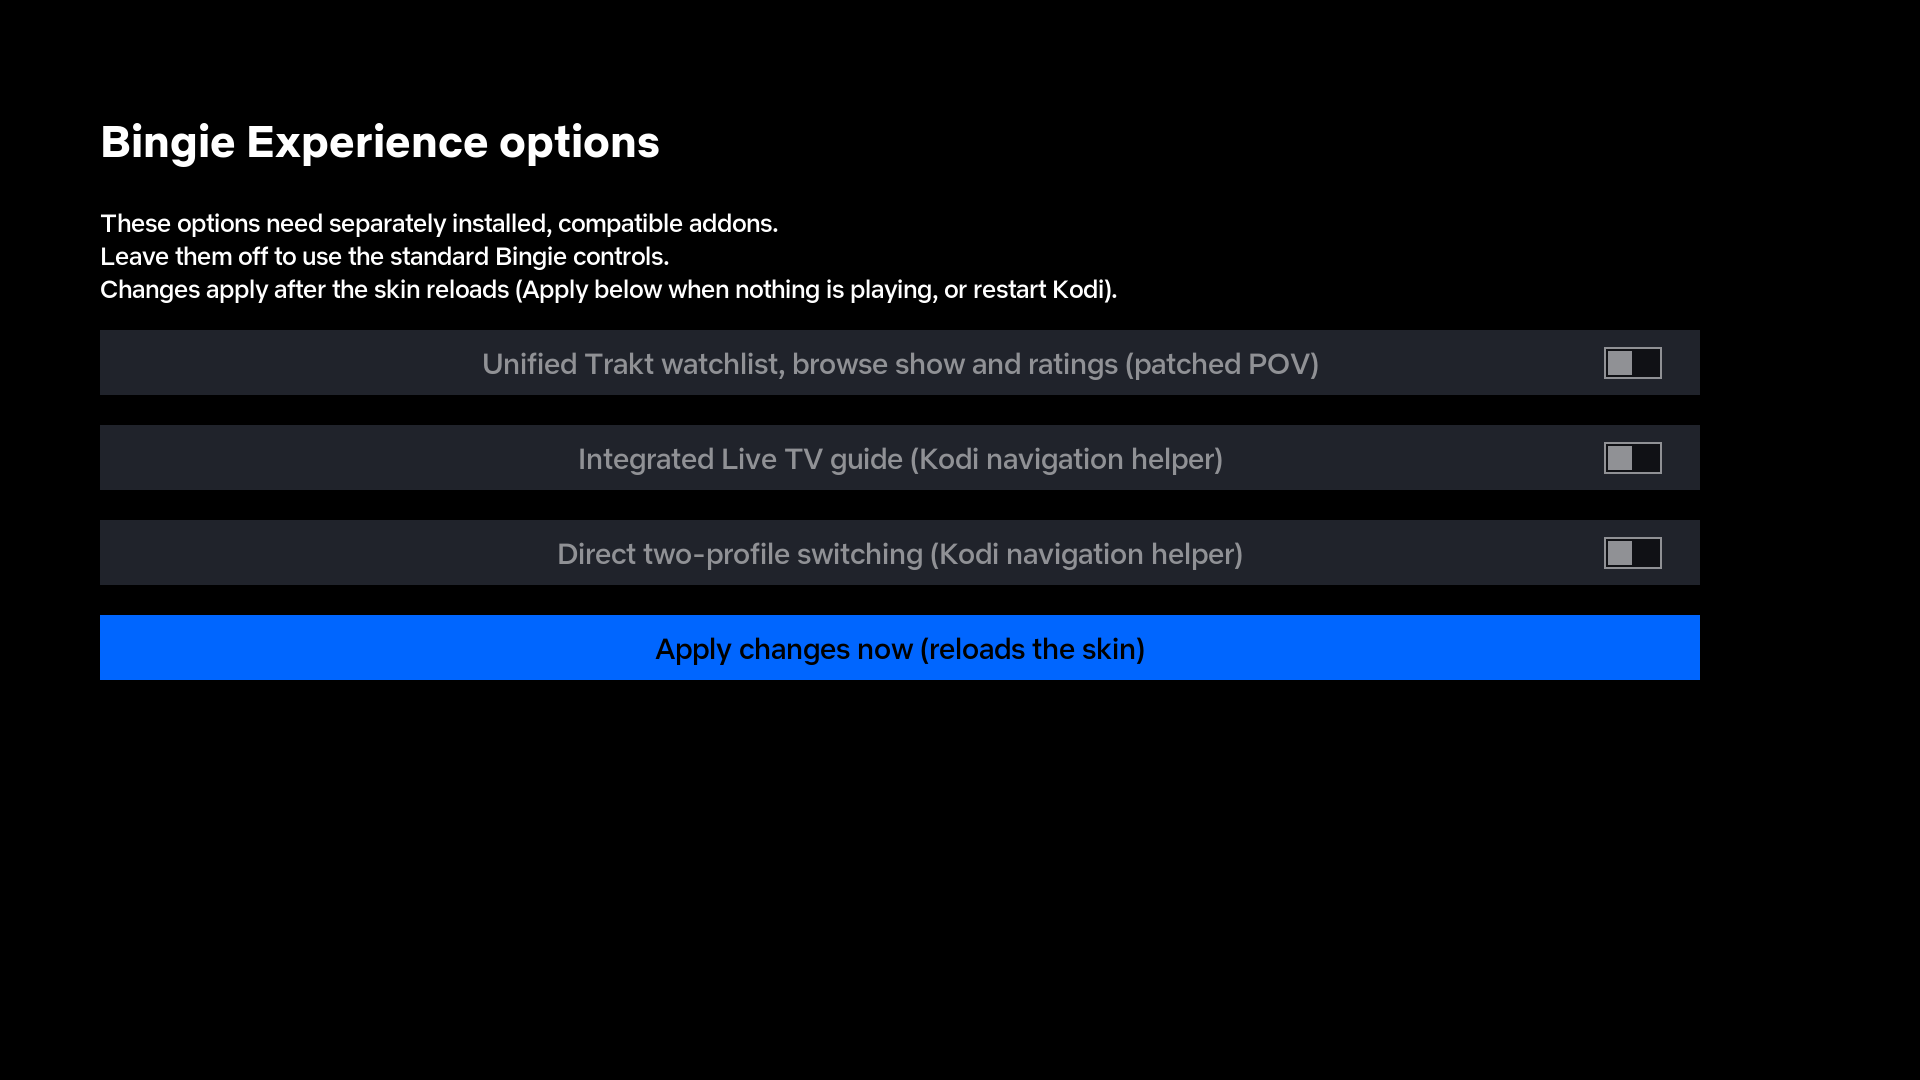
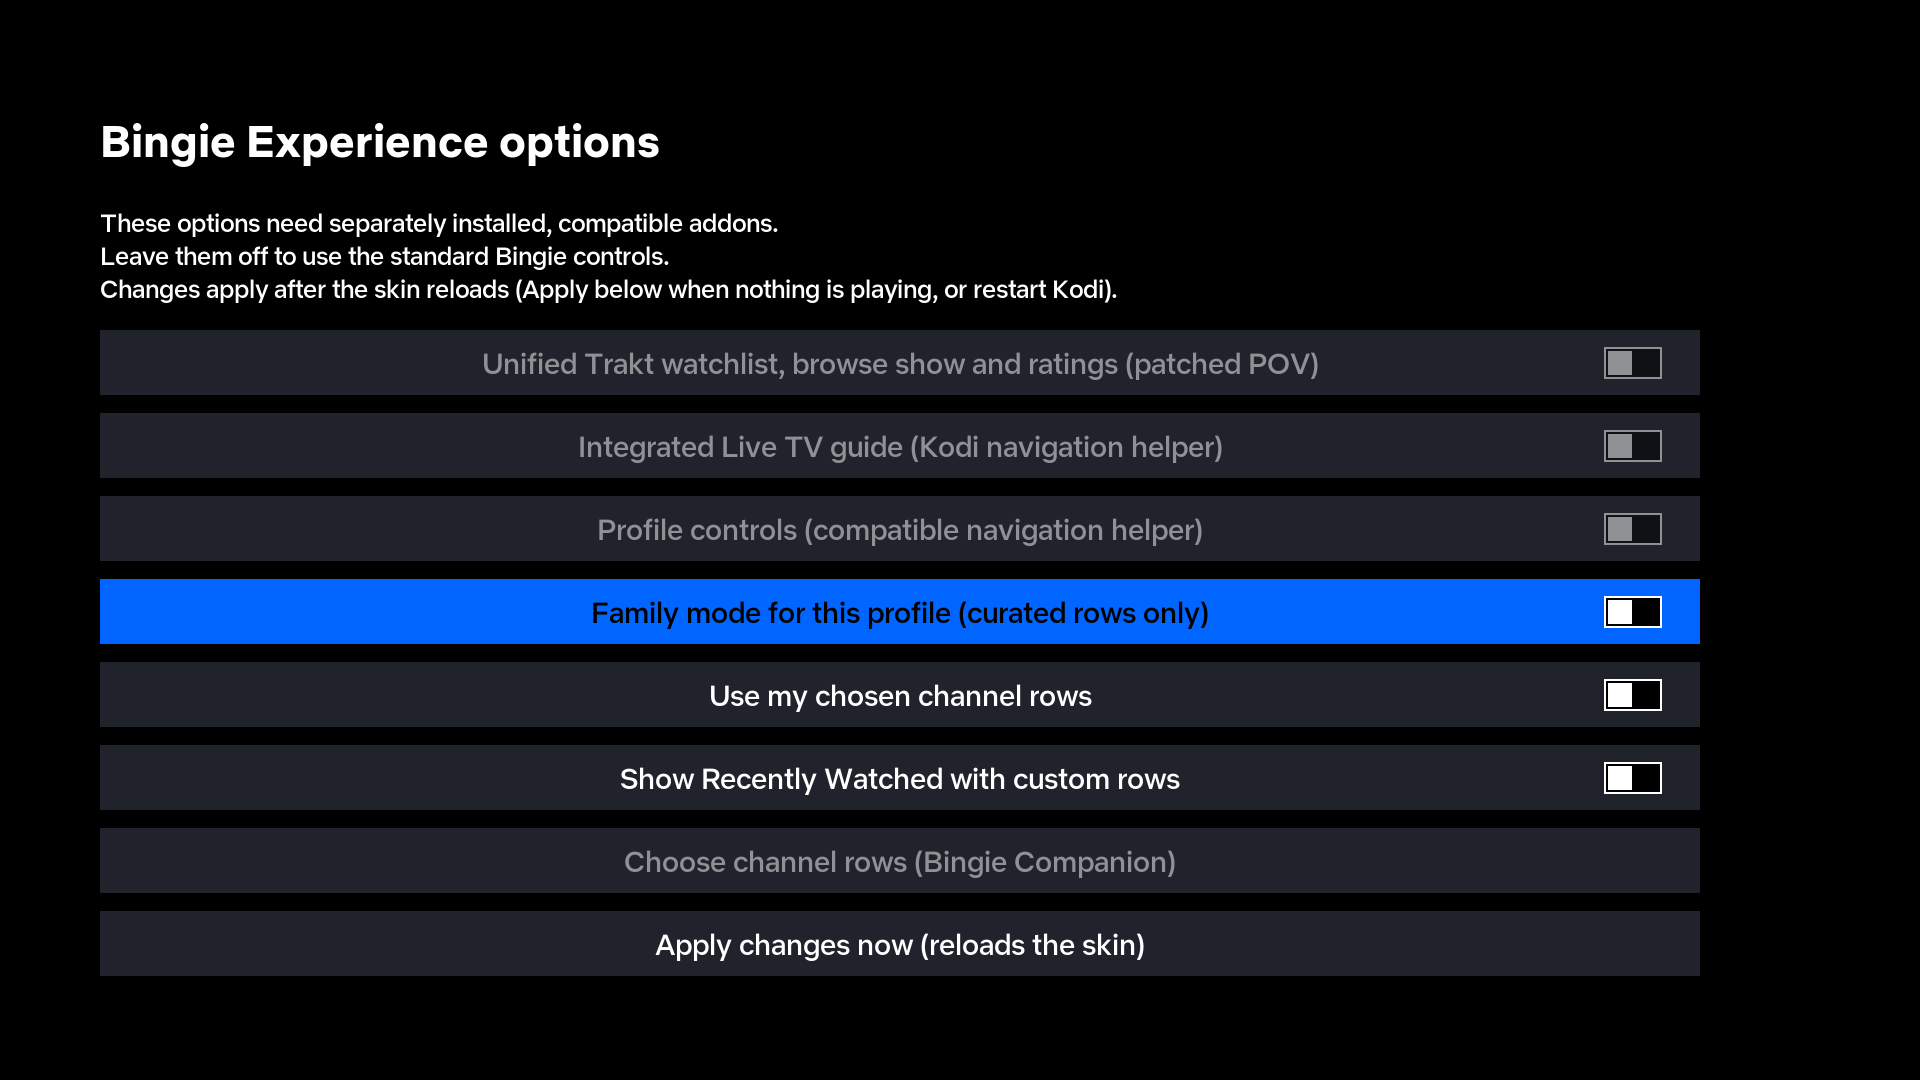
docs: add beta acceptance and current UI preview

diff --git a/tests/test_skin.py b/tests/test_skin.py
@@ -60,6 +60,13 @@ def pvr_hub_paths(root, livetv, addon, kids):
 
 
 class SkinTests(unittest.TestCase):
+    def test_release_documentation_matches_the_packaged_version(self):
+        version = ET.parse(ROOT / 'addon.xml').getroot().get('version')
+        readme = (ROOT / 'README.md').read_text()
+        self.assertIn('**Version %s beta**' % version, readme)
+        self.assertIn('`skin.bingie-%s.zip`' % version, readme)
+        self.assertIn('/releases/tag/v' + version, readme)
+
     def test_complete_xml_and_include_tree(self):
         check()
 

diff --git a/docs/beta-acceptance.md b/docs/beta-acceptance.md
@@ -1,0 +1,32 @@
+# Beta acceptance and rollback
+
+Source checks and CI rendering do not establish Android voice recognition or every helper/provider
+combination. Keep these checks separate from the automated results in the release notes.
+
+Before installation, back up the current skin ZIP, per-profile skin settings and Skin Shortcuts data.
+Keep existing companion/voice app versions. Test only when the TV is idle and available.
+
+- With optional companions absent, check Home, the typed keyboard, title suggestions, episode/season
+  views and the standard PVR guide. No companion error or installation prompt should appear.
+- Choose channel rows in a test profile. Cancel midway and confirm its previous choices remain.
+  Enable family mode and confirm missing rows stay empty, with no unrestricted history/channel
+  fallback. Enable family guide shortcuts only with a restricted PVR client.
+- In an existing configured installation, confirm the original navigation helper still handles
+  guide/profile actions. Verify direct switching retains its original guarded relaunch behavior.
+  Unsupported Kodi 22 switching must be refused, never attempted through native profile loading.
+- Install/configure the optional Android voice app and Kodi companion separately. Check the mic's
+  keyboard navigation, permission prompt, partial/final speech, cancel, empty recognition, missing
+  token, unreachable Kodi Manager, and a title containing a comma. Spoken results should use the
+  same search view; cancelling must preserve typed text. Test the physical mic only after an explicit
+  assistant-role choice; an on-screen mic test must not change that role.
+- While a local test video is playing/paused, verify disruptive voice/profile actions are disabled
+  or refused and ordinary focus changes do not stop playback.
+- With explicitly configured Continue Watching sources, check a resumable duplicate, completed
+  items and an unavailable source. Switch profiles and confirm no source/history is inherited.
+- Roll back to the saved skin ZIP. Newly added community keys are ignored by older skins; restore
+  the saved settings/Skin Shortcuts backup if needed. New public companion/app IDs can coexist with
+  existing helpers, so a skin rollback does not require replacing a working voice installation.
+
+For the reference installation, the stopped-Kodi settings migration remains private. It adds explicit
+family/channel choices without overwriting existing settings and keeps backups before either profile
+is written. Do not copy that installation's settings into a community release.

diff --git a/README.md b/README.md
@@ -62,6 +62,7 @@ To roll back, switch to Estuary, reinstall the previous Bingie ZIP and restore b
 - Earlier testing of 2.0.2.5 on that Shield confirmed the search behavior: The native search screen displayed South Park first for `sout`; a read-only query through the installed helper also returned it first for `south`. Empty input showed the search categories without opening an input dialog.
 - GitHub CI checks XML, includes, textures, stock fallbacks and playback guards on Python 3.9, 3.10 and 3.12, plus reproducible ZIP builds.
 - Headless Kodi 21 rendering has passed. Stubbed Bingie helpers leave widgets empty; this checks skin loading and screens rather than provider/account behavior. Other devices and companion combinations need runtime testing.
+- [Beta acceptance checks](docs/beta-acceptance.md) cover the remaining on-TV voice, integration and rollback scenarios.
 - Family mode is explicitly enabled per profile. Choose suitable PVR groups before using that profile; missing groups/configuration remain empty. This UI filter does not replace Kodi profile locks or backend access controls. Existing custom installations must migrate their explicit settings before upgrading; see [integration details](docs/integrations.md).
 
 Both tracked upstream `omega` branches were fully merged on 2026-10-12: Matke `9f1c6eb` and BigMoco `c960cbb`. [UPSTREAM_BASE](UPSTREAM_BASE) records revisions; [upstream maintenance](docs/upstream.md) describes future reviews.
